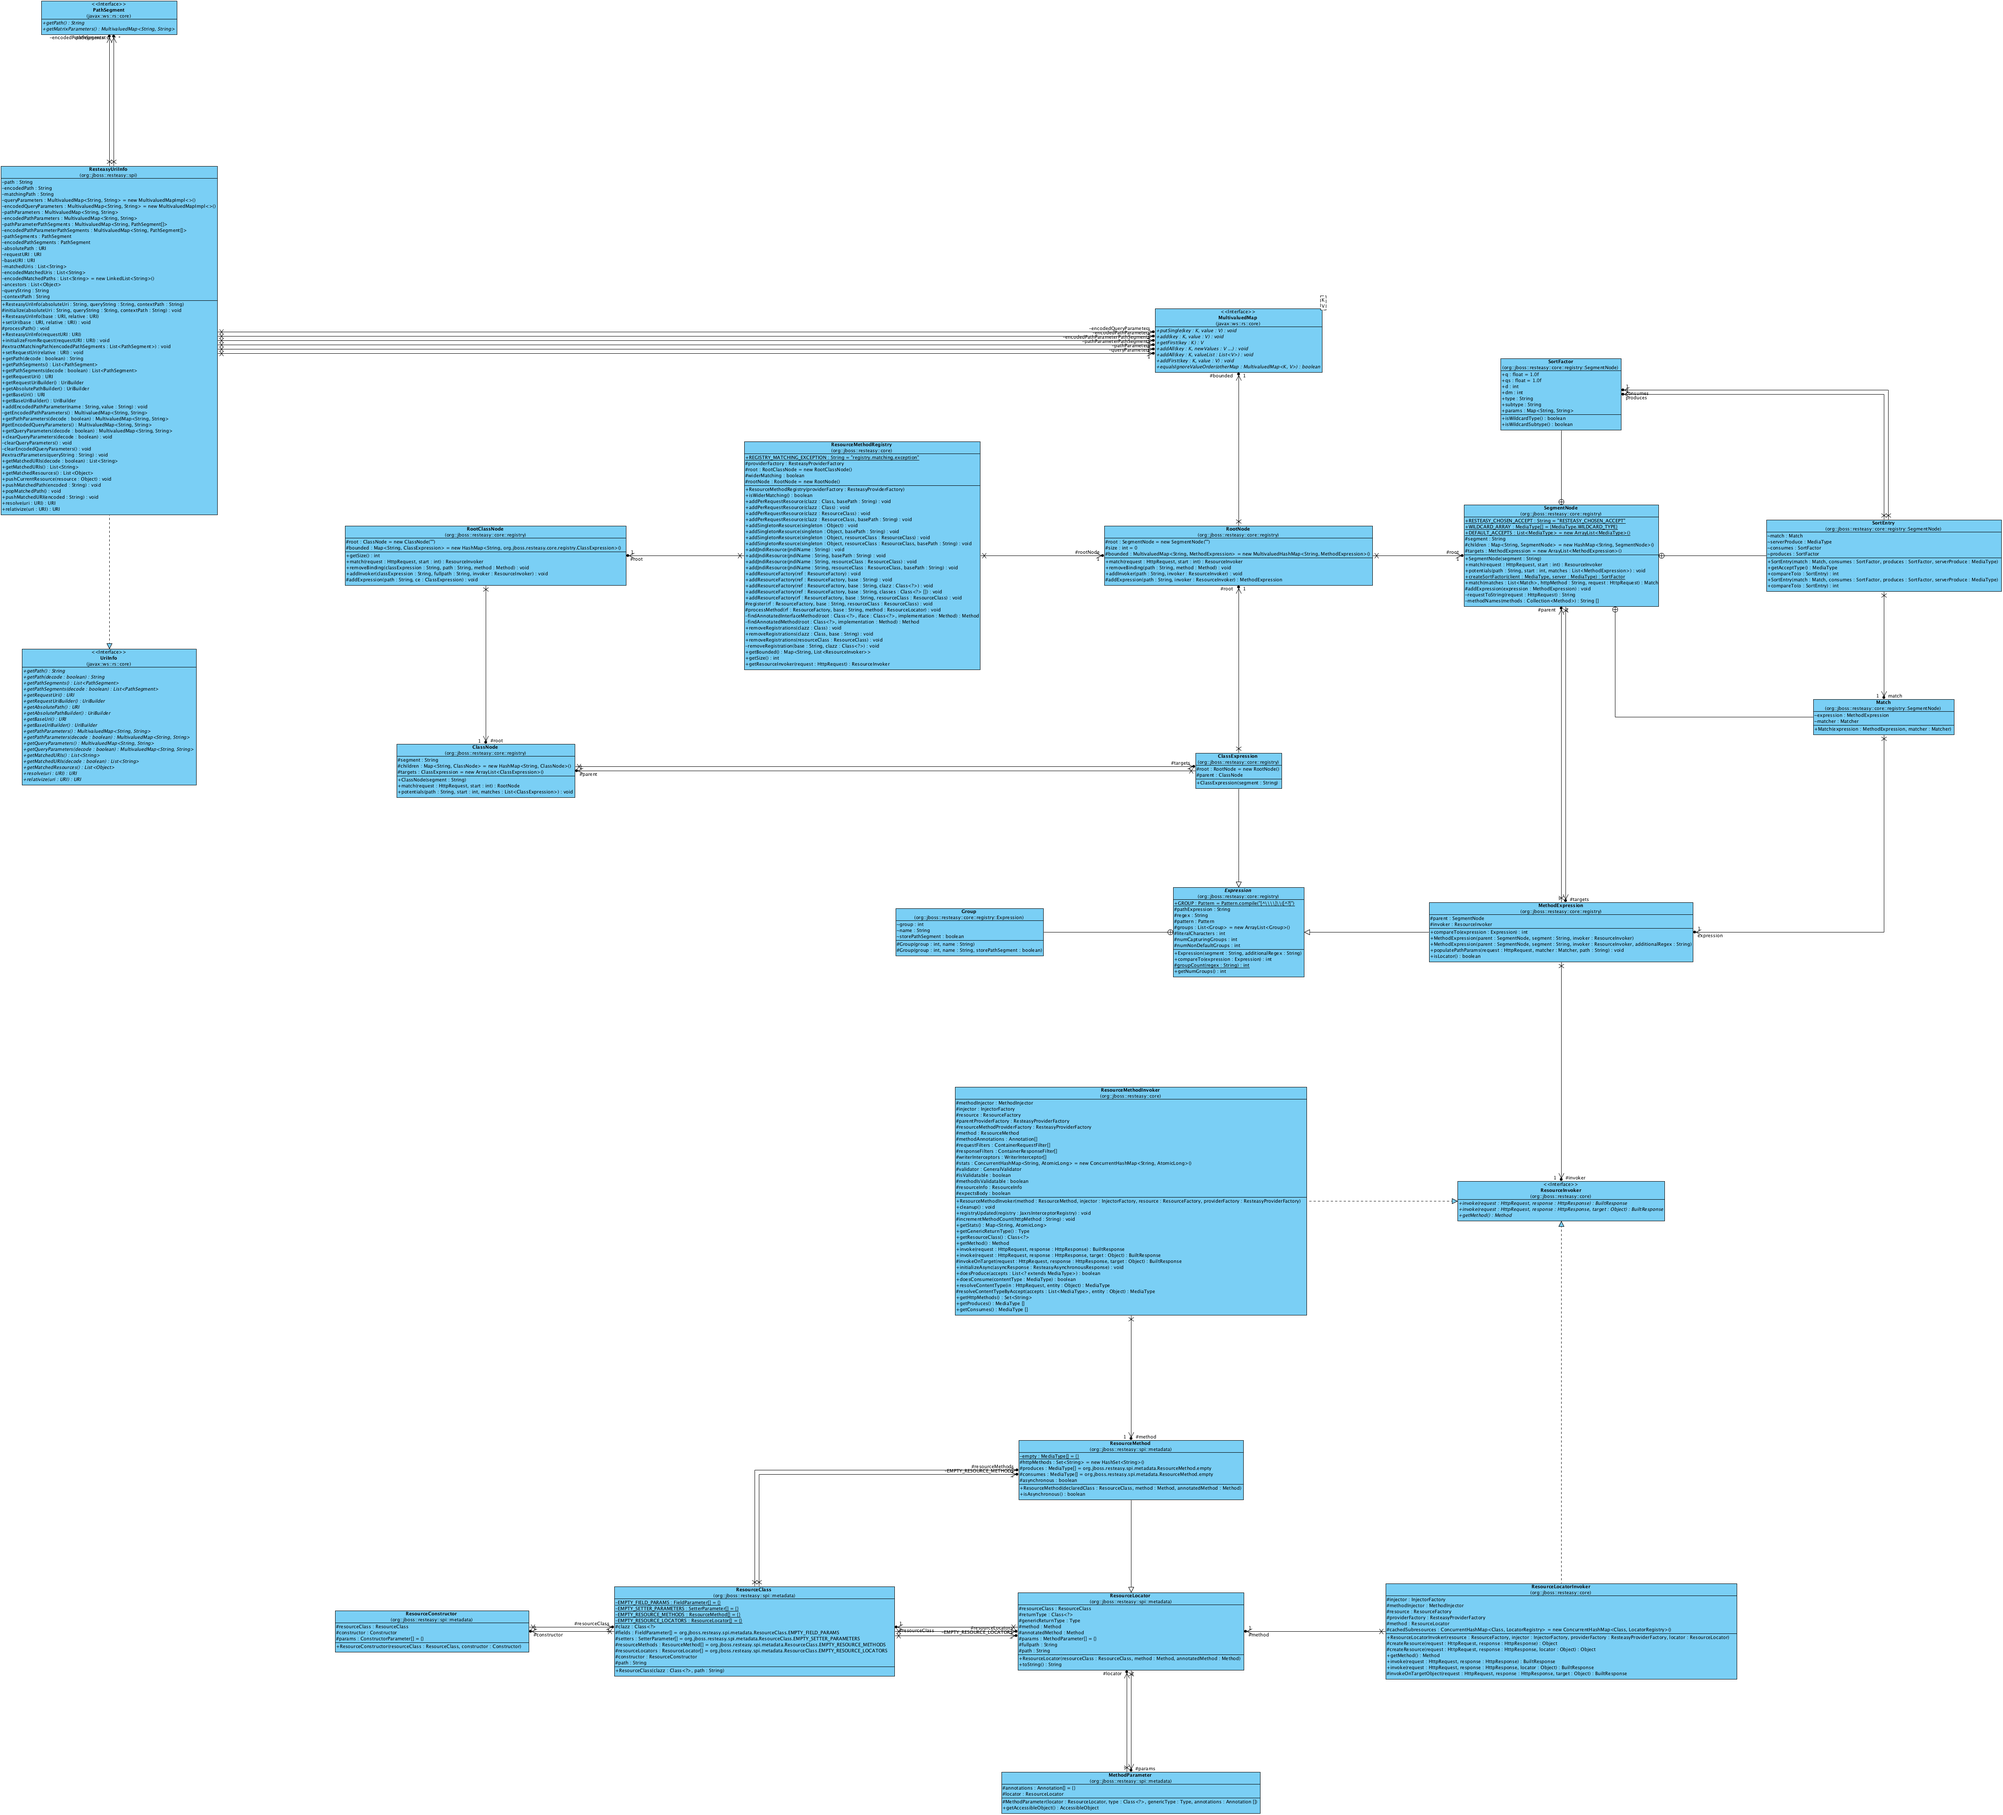
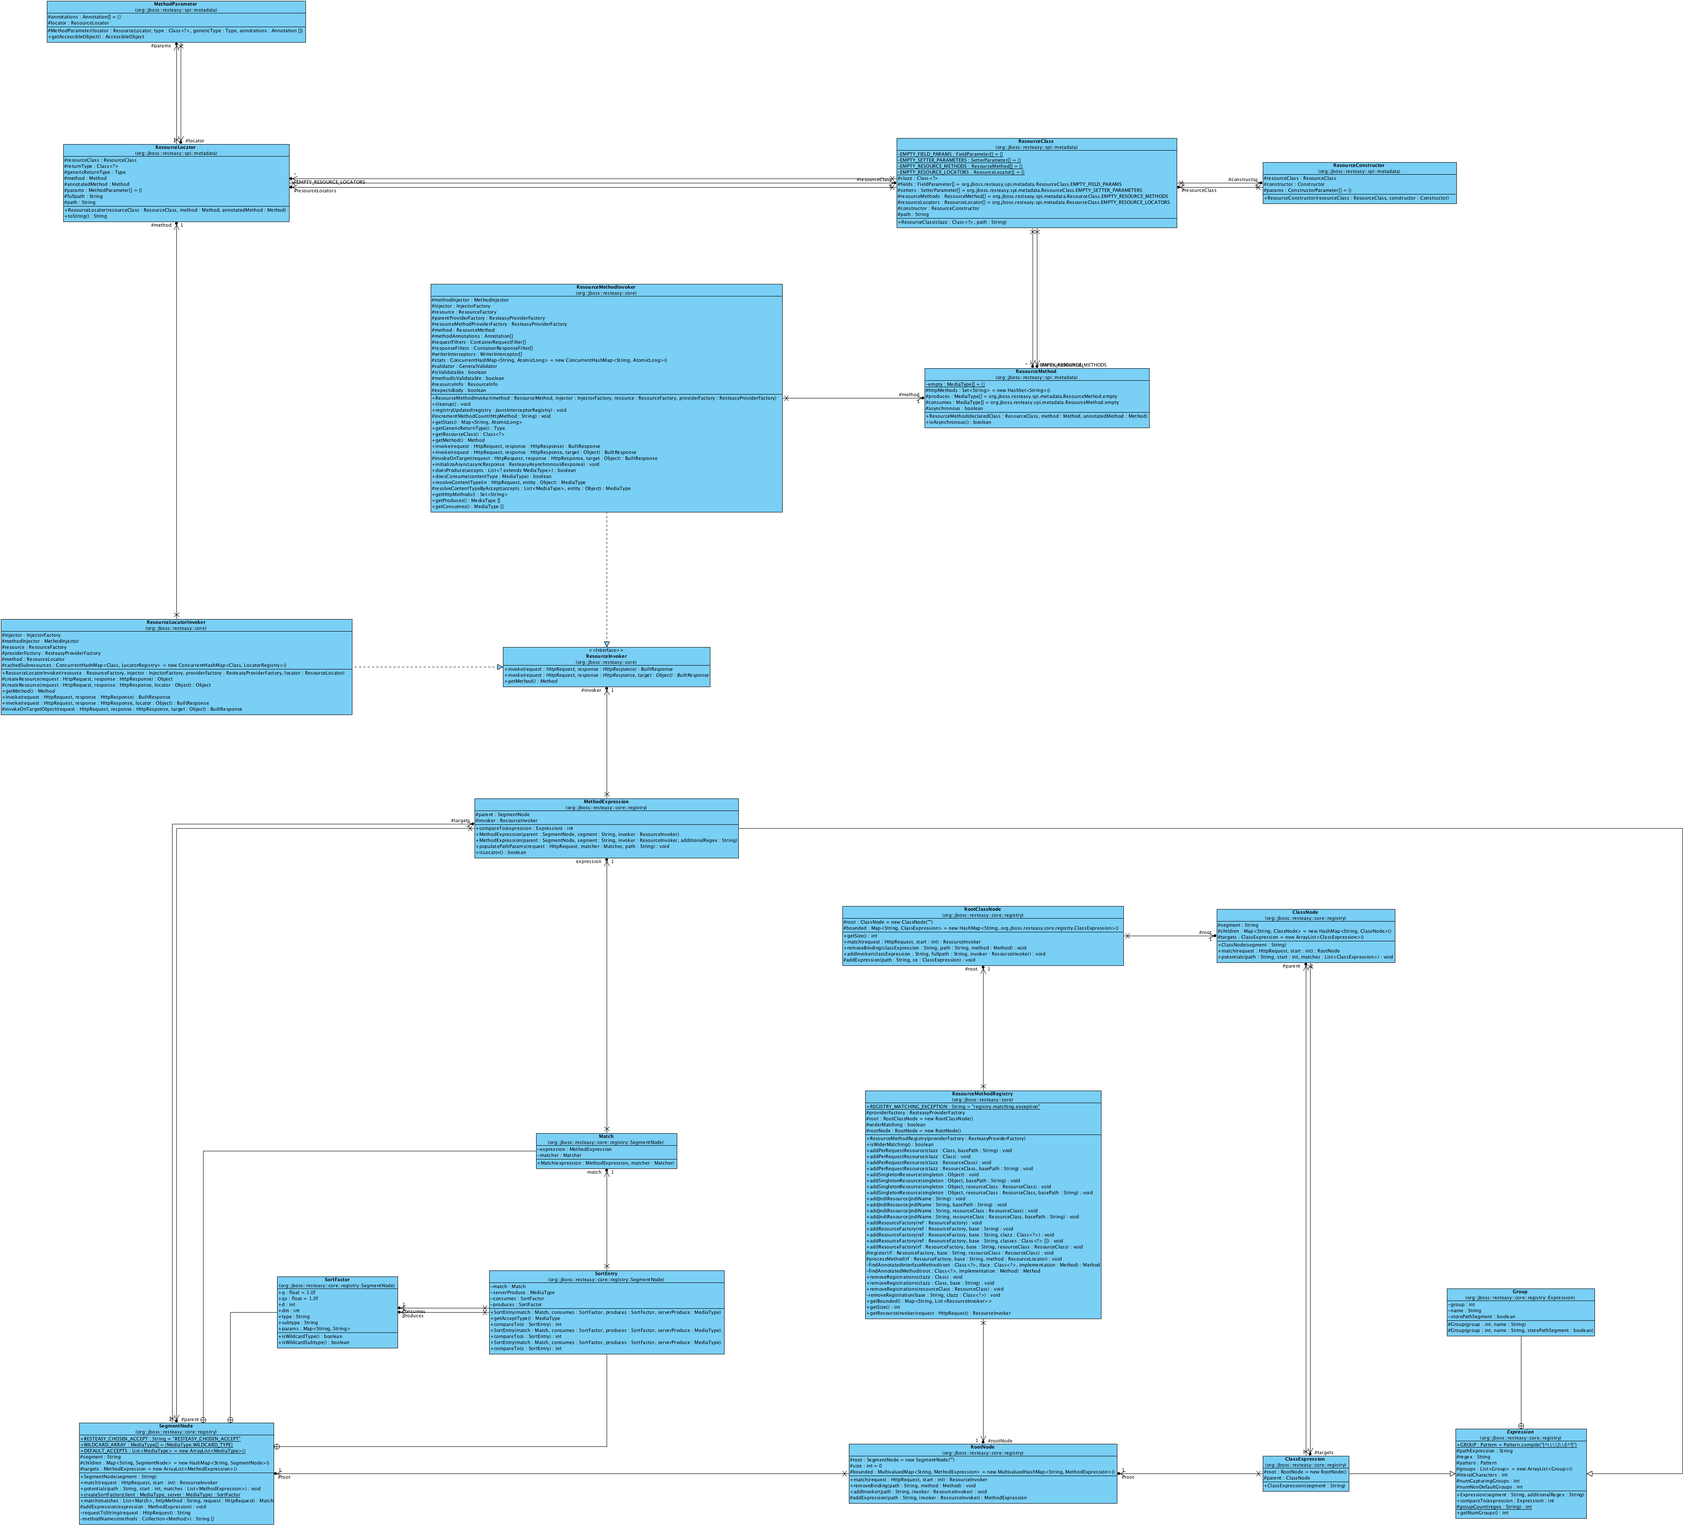
.

diff --git a/_posts/2017-03-04-jaxrs-spec3_7.md b/_posts/2017-03-04-jaxrs-spec3_7.md
@@ -228,6 +228,10 @@ Here is the whole picture of RESTEasy implementation related with resource match
 
 ![2017-03-13-whole-picture.png]({{ site.url }}/assets/2017-03-13-whole-picture.png)
 
+From the above class diagram, we can clearly see the design of RESTeasy core part. Firstly, the `ResourceMethodRegistry` is the center of these `Node` classes. The purpose of this part is to implement the matching process described in _JAX-RS SPEC 2.0 Section 3.7_. The matching result we finally get is a `MethodExpression`, which has a `invoker` instance. The `Invoker` interface will do the real job to run the Java method, so we can see `ResourceMethodInvoker` is the center of this part.
+
+To conclude, the above diagram are generally divided into two halves: The bottom half has `ResourceMethodRegistry` at center with some `Node` classes to do the URL path to `MethodExpression` matching work. The upper half has `ResourceMethodInvoker` at center, to do the real method running job.
+
 ### _References_
 
 ---
